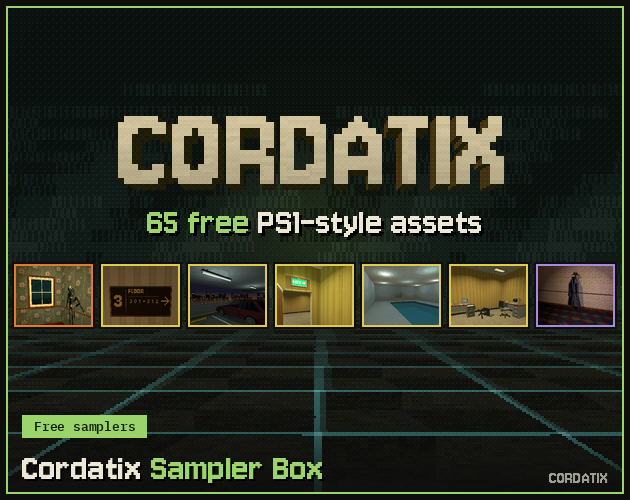
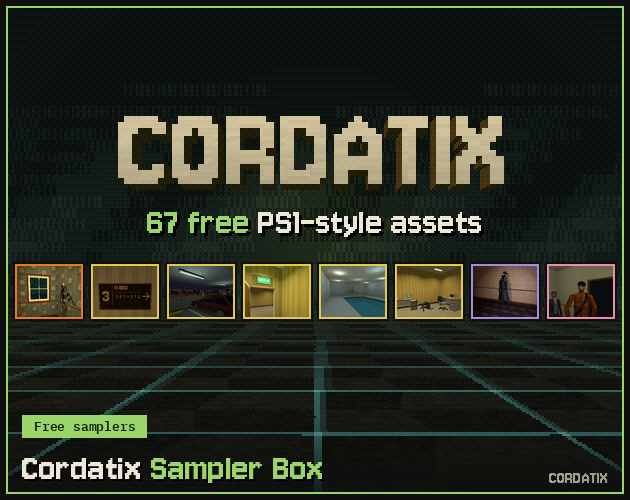
Add the NPC head-turn tutorial (PSX Bystanders NPC Pack)
How to Make NPCs Turn Their Heads to the Player in Godot 4: the devlog's
script (a SkeletonModifier3D that turns a person's chest, neck and head
to the camera when it comes near in front of them, over whatever clip
plays, within max_yaw and at most turn_speed), its README with the
devlog's GIF, and its row in the README's table. Tested in Godot 4.3 and
4.7.2 on the free sampler's office worker (6 of 6 each); every tutorial
passes, 30 of 30. The website has its page, and its packs and samplers
pages the new pack and its free sampler.

Claude-Session: https://claude.ai/code/session_01TCKJjJ7xeVYyVNzEUXBASU

Changed region(s): [[0.0, 0.51, 0.9952, 0.66], [0.2413, 0.42, 0.3016, 0.48]]

diff --git a/npcs-turn-their-heads/index.html b/npcs-turn-their-heads/index.html
@@ -1,0 +1,106 @@
+<!doctype html>
+<html lang="en">
+<head>
+<meta charset="utf-8">
+<meta name="viewport" content="width=device-width, initial-scale=1">
+<title>Cordatix: How to Make NPCs Turn Their Heads to the Player in Godot 4</title>
+<meta name="description" content="Cordatix Godot 4 PSX tutorial: A person&#x27;s chest, neck and head turn to the player who comes near, over whatever clip plays.">
+<link rel="canonical" href="https://goldensparrow-dev.github.io/cordatix-godot-psx-tutorials/npcs-turn-their-heads/">
+<meta property="og:type" content="article">
+<meta property="og:site_name" content="Cordatix">
+<meta property="og:title" content="Cordatix: How to Make NPCs Turn Their Heads to the Player in Godot 4">
+<meta property="og:description" content="Cordatix Godot 4 PSX tutorial: A person&#x27;s chest, neck and head turn to the player who comes near, over whatever clip plays.">
+<meta property="og:url" content="https://goldensparrow-dev.github.io/cordatix-godot-psx-tutorials/npcs-turn-their-heads/">
+<meta property="og:image" content="https://goldensparrow-dev.github.io/cordatix-godot-psx-tutorials/npcs-turn-their-heads/thumb.png">
+<meta name="twitter:card" content="summary_large_image">
+<link rel="stylesheet" href="../site.css">
+<link rel="icon" href="../favicon.png">
+<script type="application/ld+json">{"@context": "https://schema.org", "@type": "TechArticle", "author": {"@type": "Organization", "name": "Cordatix", "sameAs": ["https://cordatix.itch.io", "https://github.com/GoldenSparrow-Dev/cordatix-godot-psx-tutorials"], "url": "https://cordatix.itch.io"}, "description": "A person's chest, neck and head turn to the player who comes near, over whatever clip plays", "headline": "How to Make NPCs Turn Their Heads to the Player in Godot 4", "image": "https://goldensparrow-dev.github.io/cordatix-godot-psx-tutorials/npcs-turn-their-heads/thumb.png", "inLanguage": "en", "isAccessibleForFree": true, "isBasedOn": "https://cordatix.itch.io/psx-bystanders-npc-pack/devlog/1737124/how-to-make-npcs-turn-their-heads-to-the-player-in-godot-4-psx-bystanders-npc-pack", "license": "https://opensource.org/licenses/MIT", "mainEntityOfPage": "https://goldensparrow-dev.github.io/cordatix-godot-psx-tutorials/npcs-turn-their-heads/", "programmingLanguage": "GDScript", "publisher": {"@type": "Organization", "name": "Cordatix", "sameAs": ["https://cordatix.itch.io", "https://github.com/GoldenSparrow-Dev/cordatix-godot-psx-tutorials"], "url": "https://cordatix.itch.io"}}</script>
+</head>
+<body>
+<header class="top"><a class="brand" href="../">CORDATIX</a><nav><a href="../">Tutorials</a> <a href="../samplers.html">Free samplers</a> <a href="../packs.html">Packs</a> <a href="https://cordatix.itch.io">Store on itch.io</a></nav></header>
+<main>
+<p class="crumbs"><a href="../">Tutorials</a> › Make NPCs Turn Their Heads to the Player</p>
+<h1>How to Make NPCs Turn Their Heads to the Player in Godot 4</h1>
+<p class="lede">A person&#x27;s chest, neck and head turn to the player who comes near, over whatever clip plays.</p>
+<figure><img src="head_turn.gif" width="400" height="225" alt="In the waiting hall of PSX Bystanders NPC Pack (PSX look on): the camera walks up to the security guard, leaning on the wall, and his head turns to it"></figure>
+<p>Background people look alive when they notice you. This script is a SkeletonModifier3D that turns a person&#x27;s chest, neck and head to the camera when it comes near in front of them, on top of whatever clip plays: the turn shared by the bones (the chest a little, the head most), held within <code>max_yaw</code>, never faster than <code>turn_speed</code>, and back to the clip&#x27;s own pose when the camera goes away or behind them.</p>
+<p class="muted">Script: <a href="npc_head_turn.gd">npc_head_turn.gd</a> (MIT) · Godot 4.3 or newer · <a href="https://github.com/GoldenSparrow-Dev/cordatix-godot-psx-tutorials/tree/main/npcs-turn-their-heads">its folder on GitHub</a></p>
+<h2>How to use it</h2>
+<ol>
+<li>Add a <code>SkeletonModifier3D</code> node as a child of the character&#x27;s <code>Skeleton3D</code> and attach <code>npc_head_turn.gd</code> to it (or in code: <code>skeleton.add_child(preload(&quot;npc_head_turn.gd&quot;).new())</code>).</li>
+<li>Set <code>bones</code> to the bones that share the turn and their shares, which add up to 1: by default Godot&#x27;s humanoid names, <code>[[&quot;Chest&quot;, 0.15], [&quot;Neck&quot;, 0.35], [&quot;Head&quot;, 0.5]]</code>.</li>
+<li>Set how far it turns (<code>max_yaw</code>, degrees to each side), how fast (<code>turn_speed</code>, degrees a second) and from how near (<code>distance</code>, metres across the floor); <code>yaw</code> holds the turn now, in degrees (left of the face positive).</li>
+</ol>
+<h2>What it needs</h2>
+<ul class="lines">
+<li>Godot 4.3 or newer (SkeletonModifier3D came in 4.3).</li>
+<li>A Skeleton3D with the bones in <code>bones</code>, its last one the head, whose +Z is where the face points.</li>
+<li>A current Camera3D: the turn follows the viewport&#x27;s camera.</li>
+</ul>
+<h2>Try it free</h2>
+<p>The <a href="https://cordatix.itch.io/psx-bystanders-npc-pack-free">PSX Bystanders NPC Pack Free Sampler</a> has two of the pack&#x27;s people with every clip, the office worker and the young man: put one&#x27;s model from <code>cordatix/psx_bystanders/models/</code> in a scene, play a clip and add the script under its Skeleton3D. The pack&#x27;s own NPC layer has a fuller turn of its own (<code>CordatixBystanderLook</code>), so the script is for a model without the layer.</p>
+<h2>How it was tested</h2>
+<p>In Godot 4.3 and 4.7.2, on the free sampler&#x27;s office worker playing Idle: it turns to a camera 30 degrees to the left until the face is on it, holds at <code>max_yaw</code> past it, never turns faster than <code>turn_speed</code> when the camera jumps across, goes back to the clip&#x27;s own pose when the camera is behind or far, and the clip plays on under the turn.</p>
+<h2>The code</h2>
+<pre><code>extends SkeletonModifier3D
+## How to Make NPCs Turn Their Heads to the Player in Godot 4
+## Cordatix Godot 4 PSX tutorials, MIT licensed: https://github.com/GoldenSparrow-Dev/cordatix-godot-psx-tutorials
+## The devlog: https://cordatix.itch.io/psx-bystanders-npc-pack/devlog/1737124/how-to-make-npcs-turn-their-heads-to-the-player-in-godot-4-psx-bystanders-npc-pack
+## Turns a person&#x27;s chest, neck and head to the camera when it comes near in front of them, over whatever clip plays:
+## the turn shared by the bones (the chest a little, the head most), held within max_yaw, at most turn_speed degrees a
+## second, and back to the clip&#x27;s own pose when the camera goes away or behind them. Add it as a child of the
+## person&#x27;s Skeleton3D (Godot 4.3 or newer). The head bone&#x27;s +Z is where the face points.
+
+## The bones that share the turn, and their shares (they add up to 1).
+@export var bones: Array = [[&quot;Chest&quot;, 0.15], [&quot;Neck&quot;, 0.35], [&quot;Head&quot;, 0.5]]
+## Degrees to each side, at most.
+@export var max_yaw := 65.0
+## Degrees a second, at most.
+@export var turn_speed := 30.0
+## How near the camera must come (metres, across the floor).
+@export var distance := 4.0
+
+## The turn now, in degrees (left of the face positive).
+var yaw := 0.0
+var _ids: Array = []
+
+
+func _process_modification() -&gt; void:
+	var sk := get_skeleton()
+	if sk == null:
+		return
+	if _ids.is_empty():
+		for b in bones:
+			var i := sk.find_bone(String(b[0]))
+			if i &gt;= 0:
+				_ids.append([i, float(b[1])])
+		if _ids.is_empty():
+			return
+	var want := 0.0
+	var cam := get_viewport().get_camera_3d()
+	if cam:
+		# where the camera is, against where the face points in the clip alone, across the floor
+		var head: Transform3D = sk.global_transform * sk.get_bone_global_pose(_ids[-1][0])
+		var face := head.basis.z
+		var to := cam.global_position - head.origin
+		var angle := rad_to_deg(atan2(face.z * to.x - face.x * to.z, face.x * to.x + face.z * to.z))
+		if Vector2(to.x, to.z).length() &lt; distance and absf(angle) &lt; 100.0:      # near, and not behind
+			want = clampf(angle, -max_yaw, max_yaw)
+	yaw = move_toward(yaw, want, turn_speed * get_process_delta_time())
+
+
+	# each bone turns its share about the vertical through its joint, in its parent&#x27;s space
+	var up := (sk.global_transform.basis.inverse() * Vector3.UP).normalized()
+	for e in _ids:
+		var i: int = e[0]
+		var parent := sk.get_bone_parent(i)
+		var axis := up if parent &lt; 0 else (sk.get_bone_global_pose(parent).basis.inverse() * up).normalized()
+		sk.set_bone_pose_rotation(i, Quaternion(axis, deg_to_rad(yaw * float(e[1]))) * sk.get_bone_pose_rotation(i))
+</code></pre>
+<h2>The devlog and the pack</h2>
+<p>The step-by-step walkthrough is the devlog <a href="https://cordatix.itch.io/psx-bystanders-npc-pack/devlog/1737124/how-to-make-npcs-turn-their-heads-to-the-player-in-godot-4-psx-bystanders-npc-pack">How to Make NPCs Turn Their Heads to the Player in Godot 4 (PSX Bystanders NPC Pack)</a> on itch.io, written for <a href="https://cordatix.itch.io/psx-bystanders-npc-pack">PSX Bystanders NPC Pack</a>, a PS1-style asset pack by <a href="https://cordatix.itch.io">Cordatix</a> for Godot 4, Unity, Unreal and Blender.</p>
+</main>
+<footer><p>Cordatix: PS1-style asset packs for Godot 4, Unity, Unreal and Blender, on <a href="https://cordatix.itch.io">itch.io</a>. The tutorials' code on <a href="https://github.com/GoldenSparrow-Dev/cordatix-godot-psx-tutorials">GitHub</a>, MIT licensed; the pictures show Cordatix asset packs and are not covered by the MIT license.</p></footer>
+</body>
+</html>

diff --git a/samplers.html b/samplers.html
@@ -4,12 +4,12 @@
 <meta charset="utf-8">
 <meta name="viewport" content="width=device-width, initial-scale=1">
 <title>Cordatix Free Samplers: PS1 Horror Assets for Godot, Unity, Unreal</title>
-<meta name="description" content="Cordatix free samplers: 65 PS1-style horror and liminal assets from every pack, for Godot 4, Unity, Unreal and Blender, free for commercial use too.">
+<meta name="description" content="Cordatix free samplers: 67 PS1-style horror and liminal assets from every pack, for Godot 4, Unity, Unreal and Blender, free for commercial use too.">
 <link rel="canonical" href="https://goldensparrow-dev.github.io/cordatix-godot-psx-tutorials/samplers.html">
 <meta property="og:type" content="website">
 <meta property="og:site_name" content="Cordatix">
 <meta property="og:title" content="Cordatix Free Samplers: PS1 Horror Assets for Godot, Unity, Unreal">
-<meta property="og:description" content="Cordatix free samplers: 65 PS1-style horror and liminal assets from every pack, for Godot 4, Unity, Unreal and Blender, free for commercial use too.">
+<meta property="og:description" content="Cordatix free samplers: 67 PS1-style horror and liminal assets from every pack, for Godot 4, Unity, Unreal and Blender, free for commercial use too.">
 <meta property="og:url" content="https://goldensparrow-dev.github.io/cordatix-godot-psx-tutorials/samplers.html">
 <meta property="og:image" content="https://goldensparrow-dev.github.io/cordatix-godot-psx-tutorials/og.png">
 <meta name="twitter:card" content="summary_large_image">
@@ -21,7 +21,7 @@
 <header class="top"><a class="brand" href="./">CORDATIX</a><nav><a href="./">Tutorials</a> <a href="samplers.html">Free samplers</a> <a href="packs.html">Packs</a> <a href="https://cordatix.itch.io">Store on itch.io</a></nav></header>
 <main>
 <h1>Free PS1-style asset samplers by Cordatix</h1>
-<p class="lede">Every Cordatix world and pack has a free sampler: 65 PS1-style assets in all, for Godot 4, Unity, Unreal and Blender, free for commercial use too. Each one is a few of its pack's own files, with a small demo, so you can try the pack before you buy it.</p>
+<p class="lede">Every Cordatix world and pack has a free sampler: 67 PS1-style assets in all, for Godot 4, Unity, Unreal and Blender, free for commercial use too. Each one is a few of its pack's own files, with a small demo, so you can try the pack before you buy it.</p>
 <p>All of them in one place: the <a href="https://cordatix.itch.io/cordatix-sampler-box">Cordatix Sampler Box</a> holds every sampler, the same files as on their own pages.</p>
 <h2>Haunted PSX: PS1 horror asset packs</h2>
 <p class="muted">PS1-style horror, from abandoned schools, hospitals and motels to Halloween nights.</p>
@@ -42,9 +42,10 @@
 <li><a href="https://cordatix.itch.io/liminal-psx-office-props-free">Liminal PSX Office Props - Free Sampler</a> v1.0: 8 PS1-style 3D models</li>
 </ul>
 <h2>Standalone Packs: PS1-style packs for any game</h2>
-<p class="muted">PS1-style packs that fit any world, like horror set pieces that move unseen.</p>
+<p class="muted">PS1-style packs that fit any world, from horror set pieces to everyday NPCs.</p>
 <ul class="lines">
 <li><a href="https://cordatix.itch.io/silent-dread-free">Silent Dread Free Sampler</a> v1.0: 1 animated PS1-style horror set piece</li>
+<li><a href="https://cordatix.itch.io/psx-bystanders-npc-pack-free">PSX Bystanders NPC Pack Free Sampler</a> v1.0: 2 PS1-style NPCs with every clip</li>
 </ul>
 </main>
 <footer><p>Cordatix: PS1-style asset packs for Godot 4, Unity, Unreal and Blender, on <a href="https://cordatix.itch.io">itch.io</a>. The tutorials' code on <a href="https://github.com/GoldenSparrow-Dev/cordatix-godot-psx-tutorials">GitHub</a>, MIT licensed; the pictures show Cordatix asset packs and are not covered by the MIT license.</p></footer>

diff --git a/index.html b/index.html
@@ -26,6 +26,7 @@
 <p>Here are the Godot 4 tutorials from the Cordatix devlogs: tested GDScript for PS1-style games, each with a GIF of it working, how to use it, what it needs and a free sampler to try it with. The code is MIT licensed: use it in any project, commercial ones too.</p>
 <h2>Godot 4 PSX tutorials</h2>
 <ul class="cards">
+<li><a href="npcs-turn-their-heads/"><img src="npcs-turn-their-heads/thumb.png" width="360" alt="In the waiting hall of PSX Bystanders NPC Pack (PSX look on): the camera walks up to the security guard, leaning on the wall, and his head turns to it" loading="lazy"><h3>Make NPCs Turn Their Heads to the Player</h3><p>A person&#x27;s chest, neck and head turn to the player who comes near, over whatever clip plays</p></a></li>
 <li><a href="anomaly-tutorial-run/"><img src="anomaly-tutorial-run/thumb.png" width="360" alt="A tutorial of your own game, the devlog&#x27;s example, on the free sampler&#x27;s car park in Godot 4 with the PSX look: level 2, a scripted one, its hint in a band at the foot of the view, a shopping trolley in leg A&#x27;s aisle; the player turns back to the stairs they came by, the move, and level 1&#x27;s hint" loading="lazy"><h3>Script a Tutorial Run for an Anomaly Game</h3><p>The first levels of a run set in advance, each with a hint for the player, then the draw takes over</p></a></li>
 <li><a href="anomaly-loop-behind-a-menu/"><img src="anomaly-loop-behind-a-menu/thumb.png" width="360" alt="A title menu of your own game (Start and Continue) over the free sampler&#x27;s clean hotel floor, floor 3, in Godot 4 with the PSX look; Start is pressed, the view dips to dark, and the run begins on the stairwell&#x27;s landing" loading="lazy"><h3>Start an Anomaly Loop Behind a Menu</h3><p>The loop waits behind your title menu: nothing happens before Start, and the floor behind the menu is the one the run starts on</p></a></li>
 <li><a href="anomalies-without-repeats/"><img src="anomalies-without-repeats/thumb.png" width="360" alt="The free sampler&#x27;s loop in Godot 4 with the PSX look: onto level 3, across the car park, down the far stairs and out onto level 2, the same level" loading="lazy"><h3>Draw Anomalies Without Repeats</h3><p>Which anomaly a level shows: none twice before all have come, the obvious ones early, the subtle ones late</p></a></li>

diff --git a/packs.html b/packs.html
@@ -52,10 +52,12 @@
 <li><a href="https://cordatix.itch.io/liminal-psx-office-props-free">Liminal PSX Office Props - Free Sampler</a>: 8 of those props, free</li>
 </ul>
 <h2>Standalone Packs: PS1-style packs for any game</h2>
-<p class="muted">PS1-style packs that fit any world, like horror set pieces that move unseen.</p>
+<p class="muted">PS1-style packs that fit any world, from horror set pieces to everyday NPCs.</p>
 <ul class="lines">
 <li><a href="https://cordatix.itch.io/silent-dread">Silent Dread</a>: 12 animated PS1-style horror set pieces, someone in the room who should not be there; in Godot 4 they change while the player looks away</li>
 <li><a href="https://cordatix.itch.io/silent-dread-free">Silent Dread Free Sampler</a>: Hanging Coat Illusion with every state and clip, the Godot scripts and a small dark room, free</li>
+<li><a href="https://cordatix.itch.io/psx-bystanders-npc-pack">PSX Bystanders NPC Pack</a>: 10 animated PS1-style NPCs, ordinary adults in 30 looks with 31 clips each, and a Godot 4 crowd that sits, talks and looks at the player</li>
+<li><a href="https://cordatix.itch.io/psx-bystanders-npc-pack-free">PSX Bystanders NPC Pack Free Sampler</a>: 2 of the people with every clip, the NPC layer, the crowd and a small waiting room, free</li>
 </ul>
 <p>Every pack and sampler is on the <a href="https://cordatix.itch.io">Cordatix store on itch.io</a>.</p>
 </main>

diff --git a/npcs-turn-their-heads/README.md b/npcs-turn-their-heads/README.md
@@ -1,0 +1,33 @@
+# How to Make NPCs Turn Their Heads to the Player in Godot 4
+
+![In the waiting hall of PSX Bystanders NPC Pack (PSX look on): the camera walks up to the security guard, leaning on the wall, and his head turns to it](head_turn.gif)
+
+Background people look alive when they notice you. This script is a SkeletonModifier3D that turns a person's chest, neck and head to the camera when it comes near in front of them, on top of whatever clip plays: the turn shared by the bones (the chest a little, the head most), held within `max_yaw`, never faster than `turn_speed`, and back to the clip's own pose when the camera goes away or behind them.
+
+**Script:** [`npc_head_turn.gd`](npc_head_turn.gd) · Godot 4.3 or newer
+
+## How to use it
+
+1. Add a `SkeletonModifier3D` node as a child of the character's `Skeleton3D` and attach `npc_head_turn.gd` to it (or in code: `skeleton.add_child(preload("npc_head_turn.gd").new())`).
+2. Set `bones` to the bones that share the turn and their shares, which add up to 1: by default Godot's humanoid names, `[["Chest", 0.15], ["Neck", 0.35], ["Head", 0.5]]`.
+3. Set how far it turns (`max_yaw`, degrees to each side), how fast (`turn_speed`, degrees a second) and from how near (`distance`, metres across the floor); `yaw` holds the turn now, in degrees (left of the face positive).
+
+## What it needs
+
+- Godot 4.3 or newer (SkeletonModifier3D came in 4.3).
+- A Skeleton3D with the bones in `bones`, its last one the head, whose +Z is where the face points.
+- A current Camera3D: the turn follows the viewport's camera.
+
+## Try it free
+
+The [PSX Bystanders NPC Pack Free Sampler](https://cordatix.itch.io/psx-bystanders-npc-pack-free) has two of the pack's people with every clip, the office worker and the young man: put one's model from `cordatix/psx_bystanders/models/` in a scene, play a clip and add the script under its Skeleton3D. The pack's own NPC layer has a fuller turn of its own (`CordatixBystanderLook`), so the script is for a model without the layer.
+
+## Tested
+
+In Godot 4.3 and 4.7.2, on the free sampler's office worker playing Idle: it turns to a camera 30 degrees to the left until the face is on it, holds at `max_yaw` past it, never turns faster than `turn_speed` when the camera jumps across, goes back to the clip's own pose when the camera is behind or far, and the clip plays on under the turn.
+
+## The devlog and the pack
+
+The step-by-step walkthrough is the devlog [How to Make NPCs Turn Their Heads to the Player in Godot 4 (PSX Bystanders NPC Pack)](https://cordatix.itch.io/psx-bystanders-npc-pack/devlog/1737124/how-to-make-npcs-turn-their-heads-to-the-player-in-godot-4-psx-bystanders-npc-pack) on itch.io, written for [PSX Bystanders NPC Pack](https://cordatix.itch.io/psx-bystanders-npc-pack), a PS1-style asset pack by [Cordatix](https://cordatix.itch.io) for Godot 4, Unity, Unreal and Blender.
+
+The code is MIT licensed ([LICENSE](../LICENSE)). The pictures show Cordatix asset packs and are not covered by the MIT license.

diff --git a/README.md b/README.md
@@ -6,6 +6,7 @@ Godot 4 scripts from the Cordatix devlogs, for PS1-style (PSX) horror and limina
 
 | Tutorial | What it does | Written for | Try it free with |
 |---|---|---|---|
+| [Make NPCs Turn Their Heads to the Player](npcs-turn-their-heads/) | A person's chest, neck and head turn to the player who comes near, over whatever clip plays | [PSX Bystanders NPC Pack](https://cordatix.itch.io/psx-bystanders-npc-pack) | [PSX Bystanders NPC Pack Free Sampler](https://cordatix.itch.io/psx-bystanders-npc-pack-free) |
 | [Script a Tutorial Run for an Anomaly Game](anomaly-tutorial-run/) | The first levels of a run set in advance, each with a hint for the player, then the draw takes over | [Liminal PSX Parking Anomalies](https://cordatix.itch.io/liminal-psx-parking-anomalies) | [Liminal PSX Parking Anomalies Free Sampler](https://cordatix.itch.io/liminal-psx-parking-anomalies-free) |
 | [Start an Anomaly Loop Behind a Menu](anomaly-loop-behind-a-menu/) | The loop waits behind your title menu: nothing happens before Start, and the floor behind the menu is the one the run starts on | [Liminal PSX Anomalies](https://cordatix.itch.io/liminal-psx-anomalies) | [Liminal PSX Anomalies Free Sampler](https://cordatix.itch.io/liminal-psx-anomalies-free) |
 | [Draw Anomalies Without Repeats](anomalies-without-repeats/) | Which anomaly a level shows: none twice before all have come, the obvious ones early, the subtle ones late | [Liminal PSX Parking Anomalies](https://cordatix.itch.io/liminal-psx-parking-anomalies) | [Liminal PSX Parking Anomalies Free Sampler](https://cordatix.itch.io/liminal-psx-parking-anomalies-free) |
